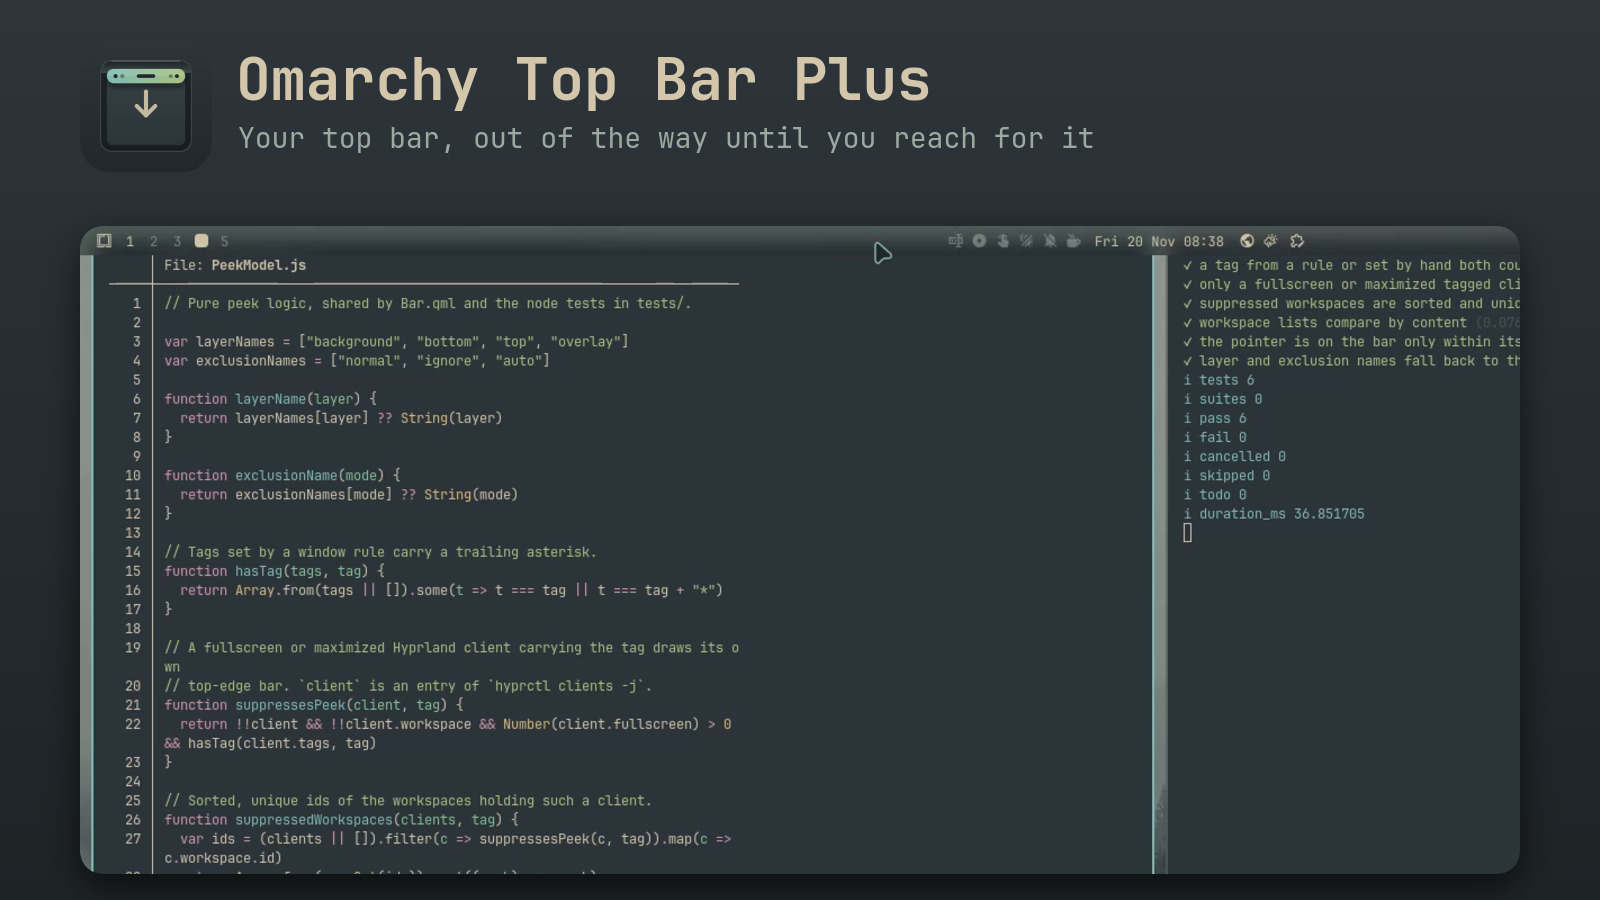
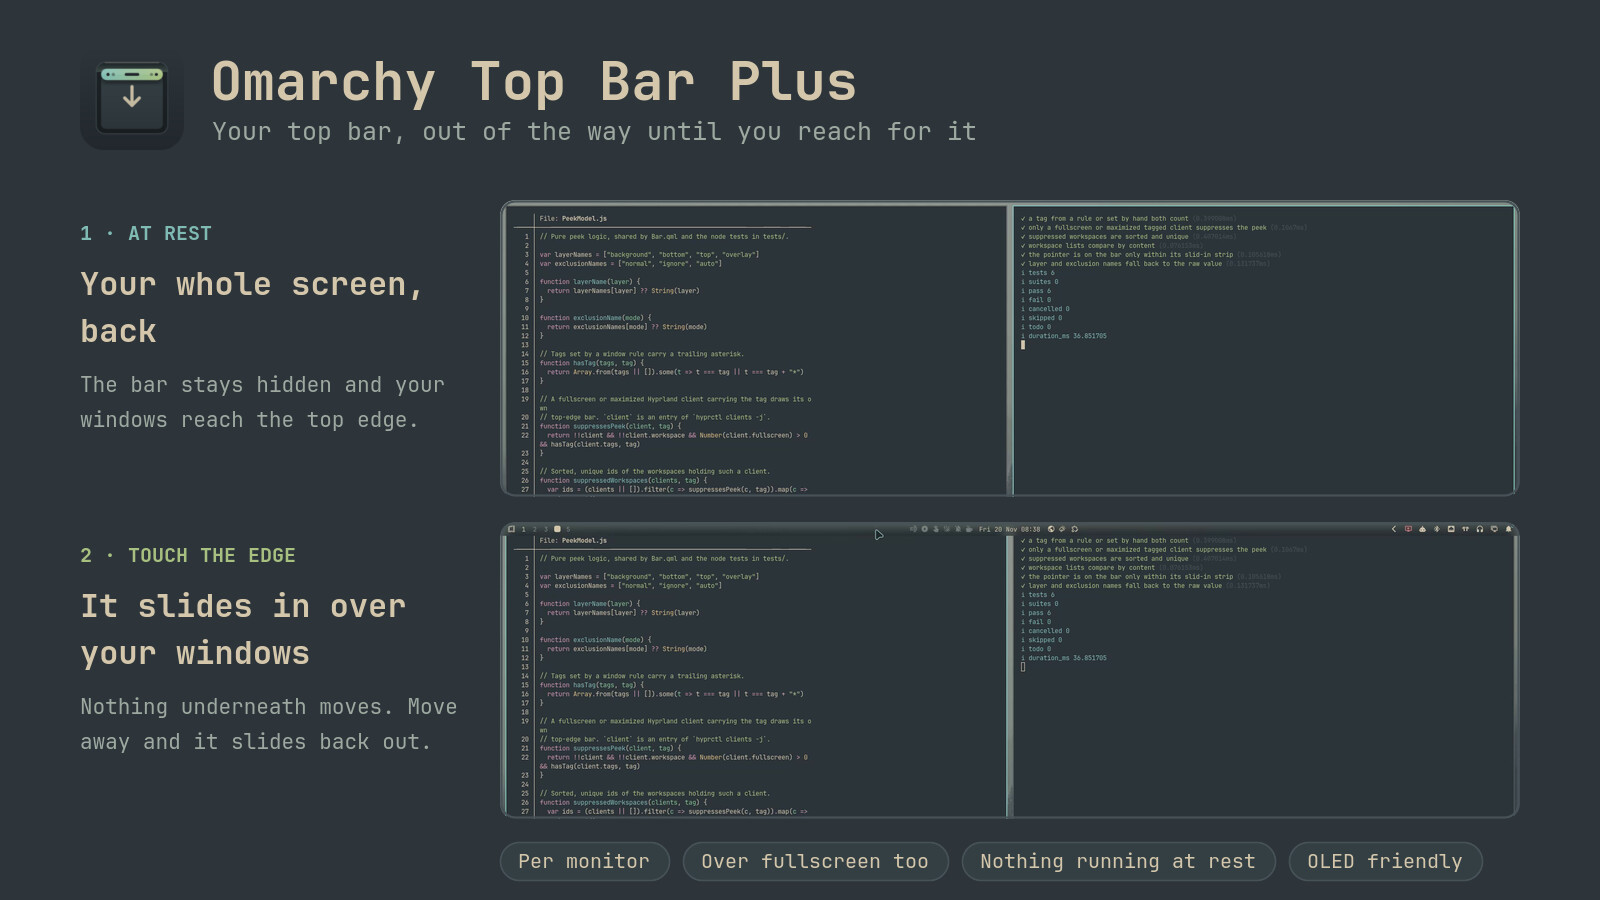
docs: describe the plugin better on the marketplace
Longer manifest description, MIT license field, author without e-mail, a before-and-after preview image and a marketplace badge in both READMEs.

Changed region(s): [[0.0312, 0.2178, 0.9688, 1.0], [0.0625, 0.0622, 0.6562, 0.1867]]

diff --git a/README.es.md b/README.es.md
@@ -11,6 +11,7 @@
 [![Hyprland 0.56](https://img.shields.io/badge/Hyprland-0.56-83c092?style=for-the-badge&logo=hyprland&logoColor=white)](https://hyprland.org/)
 [![Quickshell 0.3](https://img.shields.io/badge/Quickshell-0.3-d699b6?style=for-the-badge&logo=qt&logoColor=white)](https://quickshell.org/)
 [![Licencia MIT](https://img.shields.io/badge/licencia-MIT-dbbc7f?style=for-the-badge)](LICENSE)
+[![Omarchy Plugins](https://img.shields.io/badge/Omarchy_Plugins-listed-e69875?style=for-the-badge)](https://omarchyplugins.com/plugin.html?id=io.github.kuroge.topbar-plus)
 
 **[⬇ Instalar](#instalación)** ·
 **[📋 Novedades](CHANGELOG.es.md)** ·

diff --git a/README.md b/README.md
@@ -11,6 +11,7 @@
 [![Hyprland 0.56](https://img.shields.io/badge/Hyprland-0.56-83c092?style=for-the-badge&logo=hyprland&logoColor=white)](https://hyprland.org/)
 [![Quickshell 0.3](https://img.shields.io/badge/Quickshell-0.3-d699b6?style=for-the-badge&logo=qt&logoColor=white)](https://quickshell.org/)
 [![MIT License](https://img.shields.io/badge/license-MIT-dbbc7f?style=for-the-badge)](LICENSE)
+[![Omarchy Plugins](https://img.shields.io/badge/Omarchy_Plugins-listed-e69875?style=for-the-badge)](https://omarchyplugins.com/plugin.html?id=io.github.kuroge.topbar-plus)
 
 **[⬇ Install](#install)** ·
 **[📋 What's new](CHANGELOG.md)** ·
